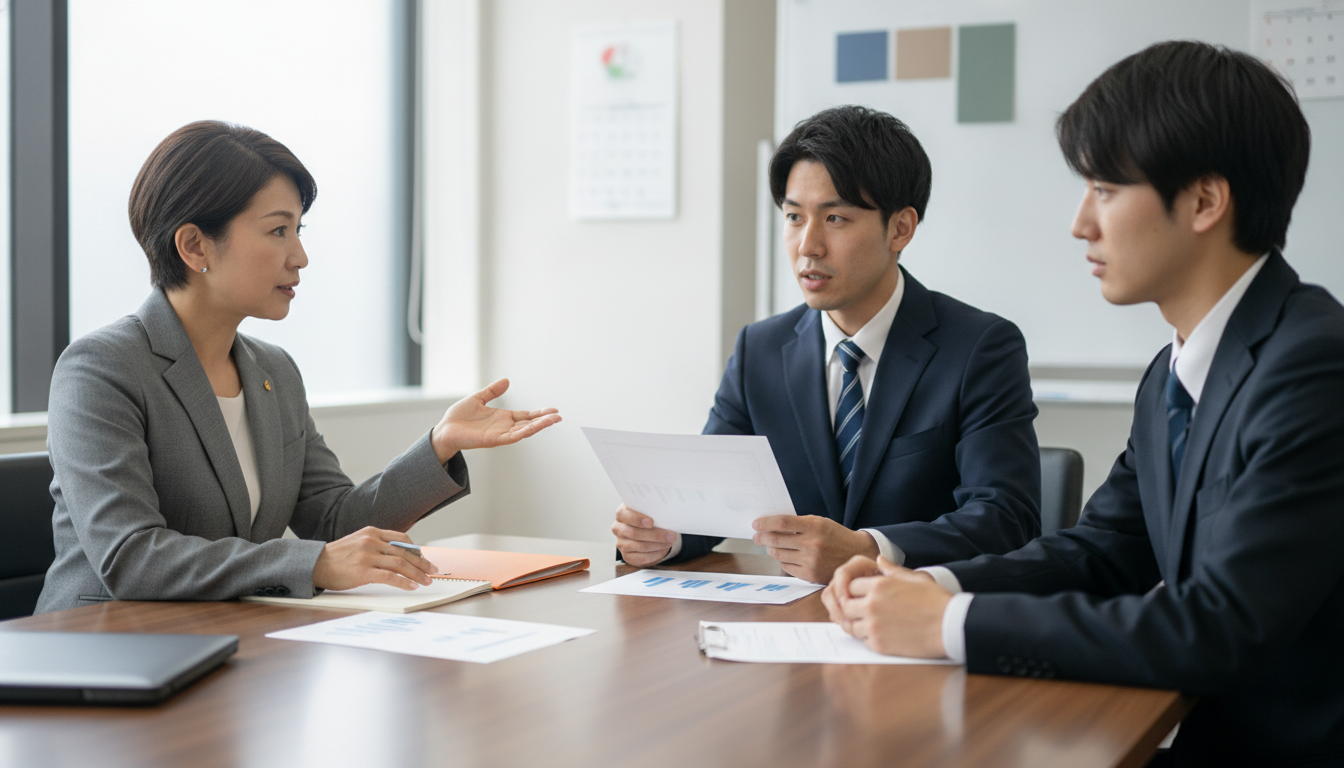
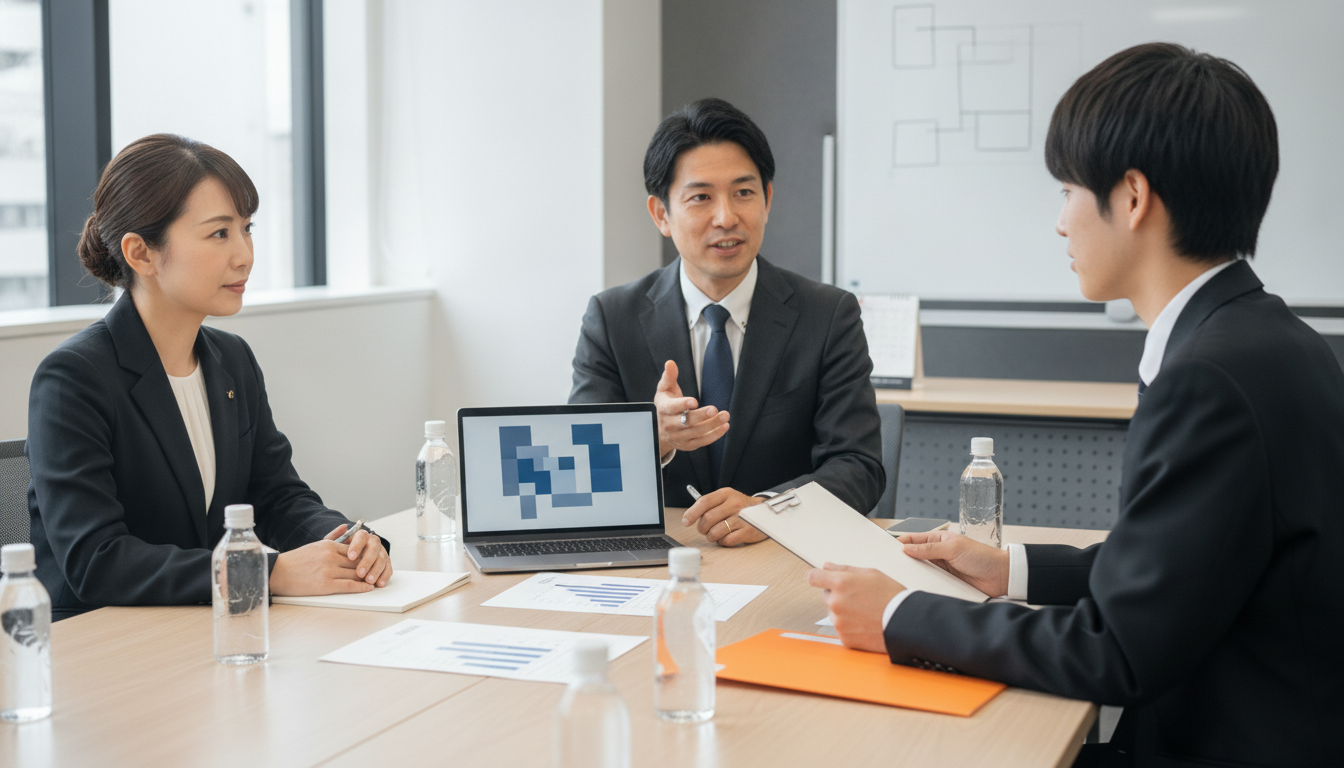
No.024: 見極めの節に「頑張る」の基準の確かめ方と接点の増やし方を追加
- 頑張るの基準は人によって違うこと、過去の経験の深掘りで確かめる方法を追記
- 面接以外の接点を増やし、担当者も自己開示して本音を引き出す進め方を追記
- まとめ・FAQ・メタ情報を更新、画像3を差し替え
- knowledge.md の K-003 に追記

Claude-Session: https://claude.ai/code/session_01MVhFnc9z1iMB51uu1opxbj

diff --git a/content/articles/out/No.024_article.html b/content/articles/out/No.024_article.html
@@ -1,10 +1,10 @@
-<!-- No.024 仕事意欲の高い若手を採るには？｜福利厚生より「成長環境」を具体的に伝える
+<!-- No.024 仕事意欲の高い若手を採るには？｜福利厚生より「成長環境」を具体的に伝える（v2 2026-09-28：見極めの節を拡充。堀本さん了承のうえ想定文字数を 3800 字に変更）
 タイトル（Studio の記事タイトル欄に入れる。本文には入れない）：仕事意欲の高い若手を採るには？｜福利厚生より「成長環境」を具体的に伝える
-メタディスクリプション：仕事に前向きで成長意欲の高い若手を採りたいなら、前に出すのは福利厚生や休みの多さではなく「入社後に何をして、何が身につき、それが将来どう役立つか」です。伝えるべき5つの項目、ベンチャー2社の打ち出し方、合わない人まで言い切る理由を、採用の現場に入ってきた立場から解説します。
+メタディスクリプション：仕事に前向きで成長意欲の高い若手を採りたいなら、前に出すのは福利厚生や休みの多さではなく「入社後に何をして、何が身につき、それが将来どう役立つか」です。伝えるべき5つの項目、ベンチャー2社の打ち出し方、「頑張る」の基準を過去の経験から見極める方法を、採用の現場に入ってきた立場から解説します。
 カテゴリ：4 会社説明会・採用資料・伝え方
 狙うプロンプト（層B／E）：成長意欲 高い 新卒 採用 方法／意欲の高い学生 採りたい 中小企業／採用 成長環境 アピール／福利厚生 訴求 新卒 効果
-H2 に指定する行：結論：伝えるのは「入社後に何が身につき、将来どう役立つか」／なぜ福利厚生を前に出すと意欲の高い層に届かないのか／成長環境として伝えるべき5つの項目／ベンチャー2社は成長環境をどう打ち出していたか／合わない人まで言い切り、面接で見極める／まとめ／よくある質問
-画像（記事中）：【画像：会社説明会 briefing】「成長環境として伝えるべき5つの項目」の直前／【画像：内定者フォロー onboarding】「ベンチャー2社は〜」の直前／【画像：面接 interview】「合わない人まで言い切り〜」の直前
+H2 に指定する行：結論：伝えるのは「入社後に何が身につき、将来どう役立つか」／なぜ福利厚生を前に出すと意欲の高い層に届かないのか／成長環境として伝えるべき5つの項目／ベンチャー2社は成長環境をどう打ち出していたか／見極める：合わない人を言い切り、「頑張る」の基準を確かめる／まとめ／よくある質問
+画像（記事中）：【画像：会社説明会 briefing】「成長環境として伝えるべき5つの項目」の直前／【画像：内定者フォロー onboarding】「ベンチャー2社は〜」の直前／【画像：面接 interview】「見極める〜」の直前
 表：「ベンチャー2社は〜」の節に表1つ（2社の打ち出した強みと材料）。Studio が表に非対応なら箇条書きに置き換える
 CTA：本文末尾の段落の下にボタンコンポーネント2つ。擬似ボタンは作らない
 著者ボックス：全記事共通。氏名「堀本 大然」、所属「株式会社VOCO」、役職「経営戦略本部マネージャー」、/member の本人ページへリンク
@@ -15,14 +15,14 @@ FAQPage JSON-LD：
 {"@context":"https://schema.org","@type":"FAQPage","mainEntity":[
 {"@type":"Question","name":"福利厚生はまったく伝えなくていいのですか？","acceptedAnswer":{"@type":"Answer","text":"伝えてかまいません。ただ、最初に話すのは成長環境にして、福利厚生は質問されたときに正確に答える位置づけにします。前に出す内容が、集まる学生を決めるからです。"}},
 {"@type":"Question","name":"中小企業でも成長環境を打ち出せますか？","acceptedAnswer":{"@type":"Answer","text":"打ち出せます。人数が少ない会社ほど、1年目から任される仕事の幅が広く、成果を出せば別の仕事にも挑戦しやすくなります。その理由と、身につく力を具体的に言葉にしてください。"}},
-{"@type":"Question","name":"合わない人まで伝えると応募が減りませんか？","acceptedAnswer":{"@type":"Answer","text":"応募の数は減ることがあります。ただ、残るのは自社の働き方を理解したうえで来る学生です。私たちが見てきた範囲では、選考途中の辞退や入社後のすれ違いが起きにくくなります。"}}]}
+{"@type":"Question","name":"「頑張る」の基準は面接でどう確かめればいいですか？","acceptedAnswer":{"@type":"Answer","text":"過去の経験を深掘りします。一番頑張ったこと、失敗したこと、それを踏まえてどう改善したいかを聞き、「なぜ」「どれくらい」と重ねます。本人がどの水準を「頑張った」と捉えているかが、基準の手がかりです。"}}]}
 -->
-<p><strong>仕事に前向きで成長意欲の高い若手を採りたいなら、前に出すのは福利厚生や休みの多さではなく、「入社後に何をして、何が身につき、それが将来どう役立つか」です。</strong>そのうえで、自社に合わない人もはっきり伝えます。</p>
+<p><strong>仕事に前向きで成長意欲の高い若手を採りたいなら、前に出すのは福利厚生や休みの多さではなく、「入社後に何をして、何が身につき、それが将来どう役立つか」です。</strong>そのうえで、自社に合わない人をはっきり伝え、その人の「頑張る」の基準を過去の経験から見極めます。</p>
 <p>「意欲のある学生に来てほしいが、説明会では福利厚生の話ばかり聞かれる」。社長からよく聞く悩みです。筆者は新卒で約200人規模のSaaS（インターネット経由で使うソフトウェア）のベンチャー企業に入り、次に約30人の営業代行のベンチャー企業に移りました。2社の例で説明します。</p>
 
 <h2>結論：伝えるのは「入社後に何が身につき、将来どう役立つか」</h2>
 <p><strong>仕事意欲の高い若手が見ているのは、入社直後の給料や休みの多さではありません。</strong>その職場で働くことで、自分の目標に近づけるか、成長できるかを見ています。</p>
-<p>筆者がいた2社は、規模も業種も違いますが、採用で共通していたことが2つあります。①採用の時点で、仕事に前向きな人かどうかを見極めていた。②会社の魅力を伝えるときに、福利厚生や働き方ではなく、仕事を通じた成長を前に出していた。この2つです。</p>
+<p>筆者がいた2社は、規模も業種も違いますが、採用で共通していたことが2つあります。①採用の時点で、仕事に前向きな人かどうかを、面接以外の接点も使って見極めていた。②会社の魅力を伝えるときに、福利厚生や働き方ではなく、仕事を通じた成長を前に出していた。この2つです。</p>
 <p>私たちが見てきた範囲では、大手企業もこうした人材の採用に前向きです。取り合いになる層だからこそ、「成長できます」の一言では選ばれません。自社ならではの中身を、具体的に言葉にする必要があります。</p>
 
 <h2>なぜ福利厚生を前に出すと意欲の高い層に届かないのか</h2>
@@ -47,11 +47,25 @@ FAQPage JSON-LD：
 <p>1社目では、内定者の段階から、社会人に必要なスキルや配属先で重要な知識を確かめるテストがありました。北海道に住んでいた筆者には、東京への航空券やインターン中の宿泊費の補助もありました。入社前から「育てる会社だ」と実感できる仕組みです。</p>
 <p>2社目は、規模が小さいことを弱みにせず、仕事の幅が広がる理由として伝えていました。中小企業にも、打ち出せる成長環境はあります。</p>
 
-<p>【画像：面接 interview】面接で、担当者が学生に仕事の厳しさも含めて率直に説明している一場面</p>
-<h2>合わない人まで言い切り、面接で見極める</h2>
-<p><strong>成長環境は、きれいな言葉ではなく、実態まで話して初めて伝わります。</strong>誰が、どうやって新人を指導するのか。最初の半年で何を任され、どこでつまずきやすいのか。説明会や面接で、ここまで具体的に話します。</p>
-<p>そのうえで、「こういう人はうちには合わない」と言い切ることも大切です。たとえば「決められた仕事だけを確実にこなしたい人には、合わない環境です」と伝えます。合わないと感じた学生は自ら離れ、残るのはその環境を望む学生です。</p>
-<p>面接では、学生が将来どうなりたいかを聞き、自社の成長環境で近づけるかを一緒に確かめます。採用の時点で見極めることが、入社後の「思っていたのと違う」を防ぎます。</p>
+<p>【画像：面接 interview】面接で、担当者が学生の部活動や受験の経験について、一つずつ深く質問している一場面</p>
+<h2>見極める：合わない人を言い切り、「頑張る」の基準を確かめる</h2>
+<p><strong>採用の時点での見極めは、成長環境を伝えることと同じくらい大切です。</strong>ここでは、①合わない人まで言い切る、②「頑張る」の基準が人によって違うことを知る、③過去の経験を深掘りして基準を確かめる、④面接以外の接点を増やす、の4つを説明します。</p>
+<h3>合わない人まで言い切る</h3>
+<p>成長環境は、きれいな言葉ではなく、実態まで話して初めて伝わります。誰が、どうやって新人を指導するのか。最初の半年で何を任され、どこでつまずきやすいのか。説明会や面接で、ここまで具体的に話します。</p>
+<p>そのうえで、「こういう人はうちには合わない」と言い切ります。たとえば「決められた仕事だけを確実にこなしたい人には、合わない環境です」と伝えます。合わないと感じた学生は自ら離れ、残るのはその環境を望む学生です。</p>
+<h3>「頑張る」の基準は人によって違う</h3>
+<p>「頑張れる人を採りたい」と考える会社は多いですが、頑張るの基準は人によって大きく違います。1日8時間働くことを「かなり頑張った」と感じる人もいれば、1日16時間取り組んでやっと「頑張った」と感じる人もいます。</p>
+<p>面接で「頑張れます」と答えた2人が、同じ基準で話しているとは限りません。この基準が、自社の仕事で求める水準とずれていると、入社後に本人も会社も「思っていたのと違う」と感じます。私たちが見てきた範囲では、早期離職の背景にこのずれがあることは少なくありません。</p>
+<h3>過去の経験を深掘りして基準を確かめる</h3>
+<p>基準を知る手がかりは、その人の過去の生き方です。部活動、受験、習い事、場合によってはアルバイト。本人が「努力した」と感じている経験が、どれくらいの量と質だったのかを確かめます。</p>
+<p>聞き方の例は次の3つです。①「これまでに一番頑張ったことは何ですか」、②「うまくいかなかったこと、失敗したことは何ですか」、③「その経験を踏まえて、これからどう改善していきたいですか」。答えには「なぜ」「どれくらい」「そのとき何をしたか」と重ねて聞きます。</p>
+<p>見るのは、経験の華やかさではなく、本人がどの水準を「頑張った」と捉えているかです。この基準が自社の求める水準と合うかどうかが、採用ターゲットに合うかの判断になります。入社後の早期離職を防ぐことにもつながります。</p>
+<h3>面接以外の接点を増やす</h3>
+<p>基準を正確に知るには、数回の面接では足りません。筆者が1社目に入ったときは、3回の選考面接とは別に、採用担当の方とほぼ毎日、電話や面談で話していました。</p>
+<p>面接の中で答えの甘さを厳しく指摘されたり、会社とは関係のない、人生についての問いを投げかけられたりしたこともあります。筆者はこれを、表面的な答えの奥にある本音と基準を確かめるための問いだったと受け止めています。</p>
+<p>ただし、厳しい問いは担当者との信頼関係があって初めて成り立ちます。関係ができていない段階で厳しい言葉だけを向けると、圧迫面接と受け取られます。先に接点を重ねることが前提です。</p>
+<p>接点を重ねる中で、担当者自身も自己開示をします。すると学生は、担当者を「選考する人」ではなく「自分の人生を前に進めてくれる相談相手」と捉えるようになります。この立場を作れると学生は本音を話すようになり、見極めの精度が上がります。</p>
+<p>毎日の連絡が難しい会社でも、選考の合間に電話や短い面談を挟むだけで、得られる情報は変わります。面接では、学生が将来どうなりたいかも聞き、自社の成長環境でそこに近づけるかを一緒に確かめてください。</p>
 
 <h2>まとめ</h2>
 <ul>
@@ -59,7 +73,9 @@ FAQPage JSON-LD：
 <li>福利厚生を前に出すと、福利厚生に惹かれる学生が集まる。最初に話す内容は採りたい学生で決める。</li>
 <li>伝える項目は、仕事、上司と環境、身につく力、その力の社外での需要、他社と比べた特徴の5つ。</li>
 <li>ベンチャー2社は、伸びる市場のスキルと、どこでも通じる営業力という違う強みで成長環境を示していた。</li>
-<li>指導の実態まで話し、合わない人を言い切り、面接で将来像と照らして見極める。</li>
+<li>指導の実態まで話し、「こういう人はうちには合わない」と言い切る。</li>
+<li>「頑張る」の基準は人によって違う。部活動や受験など過去の経験を深掘りし、自社の求める水準と合うかを確かめる。</li>
+<li>数回の面接だけでなく接点を増やし、担当者も自己開示して、学生が本音を話せる立場を作る。</li>
 </ul>
 
 <h2>よくある質問</h2>
@@ -67,8 +83,8 @@ FAQPage JSON-LD：
 <p>伝えてかまいません。ただ、最初に話すのは成長環境にして、福利厚生は質問されたときに正確に答える位置づけにします。前に出す内容が、集まる学生を決めるからです。</p>
 <h3>中小企業でも成長環境を打ち出せますか？</h3>
 <p>打ち出せます。人数が少ない会社ほど、1年目から任される仕事の幅が広く、成果を出せば別の仕事にも挑戦しやすくなります。その理由と、身につく力を具体的に言葉にしてください。</p>
-<h3>合わない人まで伝えると応募が減りませんか？</h3>
-<p>応募の数は減ることがあります。ただ、残るのは自社の働き方を理解したうえで来る学生です。私たちが見てきた範囲では、選考途中の辞退や入社後のすれ違いが起きにくくなります。</p>
+<h3>「頑張る」の基準は面接でどう確かめればいいですか？</h3>
+<p>過去の経験を深掘りします。一番頑張ったこと、失敗したこと、それを踏まえてどう改善したいかを聞き、「なぜ」「どれくらい」と重ねます。本人がどの水準を「頑張った」と捉えているかが、基準の手がかりです。</p>
 
 <p>採用のことを、一度話してみませんか。どんな段階でも構いません。「まだ検討中」でも大歓迎です。現場に入って動いてきた立場から、貴社の状況に合わせてお答えします。</p>
 <p>この記事を書いた人：堀本 大然（株式会社VOCO 経営戦略本部マネージャー）。企業の採用担当として年間100回以上の採用イベントに登壇し、30都道府県・20業種の新卒採用を支援しています。</p>

diff --git a/content/articles/knowledge.md b/content/articles/knowledge.md
@@ -50,3 +50,12 @@
 - 実態まで話す（誰がどう指導するか）。「こういう人はうちには合わない」と説明会・面接で言い切る。
 
 K-002 との関係：幹（会社の中身）のうち、何を前に出すかは採りたい学生で変わる。意欲の高い層には幹3「育つ体制」を具体的に伝える。
+
+追記（2026-09-28、堀本さん）：見極めでは「頑張る」の基準を精査する
+
+- 「頑張る」の基準は人によって違う。1日8時間の仕事をかなり頑張ったと思う人もいれば、1日16時間やってやっと頑張ったと認知する人もいる。
+- 基準は過去の生き方から判断する：部活動、受験、習い事、場合によってはアルバイト。質問例「過去に頑張ったことは何ですか」「過去に失敗したことは何ですか」「それを踏まえて今後どう改善していきたいですか」。深掘りで、本人が努力したと認知している経験のレベル感・基準を確かめる。
+- ターゲットに合うかの判断になり、入社後の早期離職の防止にもつながる。
+- 1社目では、面接中に怒られる・叱られる、会社と関係のない人生についての問いを投げられることもあった。3回の選考面接だけでなく、担当者と毎日電話または面談するなど接点回数が非常に多かった。
+- 精度の高い見極めには、数回の面接ではなく接点の回数を増やし、自己開示の中で、相手が自分の人生を前向きに前進させてくれる存在として担当者を捉えるポジションを作ることが重要。
+- 記事化の注意：厳しい問いは信頼関係が前提で、関係ができていない段階では圧迫面接と受け取られる、と添える（No.024 で添えた）。

diff --git a/tools/aeo/HANDOFF.md b/tools/aeo/HANDOFF.md
@@ -119,6 +119,7 @@
 - 構成：結論（入社後に何が身につき将来どう役立つか）／福利厚生を前に出すと意欲層に届かない理由（マイナビ大学生就職意識調査の「安定している会社」最多・5割超で補強）／伝えるべき5項目／2社の打ち出し方の表／合わない人まで言い切り面接で見極める。2577字で合格。
 - themes.md：No.024 をこの記事に充て、旧024「説明会から面接への歩留まり」は 056 に移動。knowledge.md に K-003 を追加。
 - ドキュメントを「確認前」に作成（ID: 1-byZ1RihidT8TDJxYzoUJEyC1Z4yrEiHEWBE3HMfOQk）。
+- v2（同日）：堀本さんの追加指示で見極めの節を拡充。「頑張る」の基準は人によって違う（8時間／16時間の例）→ 部活動・受験・習い事・アルバイトの経験を「一番頑張ったこと／失敗したこと／どう改善したいか」で深掘り → 面接以外の接点（1社目は担当者とほぼ毎日電話・面談）と担当者の自己開示。1社目の「面接で厳しく指摘される・人生についての問い」は、信頼関係が前提で、無いと圧迫面接と受け取られる旨を添えた。文字数は堀本さん了承で想定3800字（3862字で合格）。FAQ の3問目を「頑張るの基準の確かめ方」に差し替え、画像3を再生成。旧ドキュメントはゴミ箱へ、新ドキュメントに差し替え。
 
 ## 5. ファイルの地図
 
